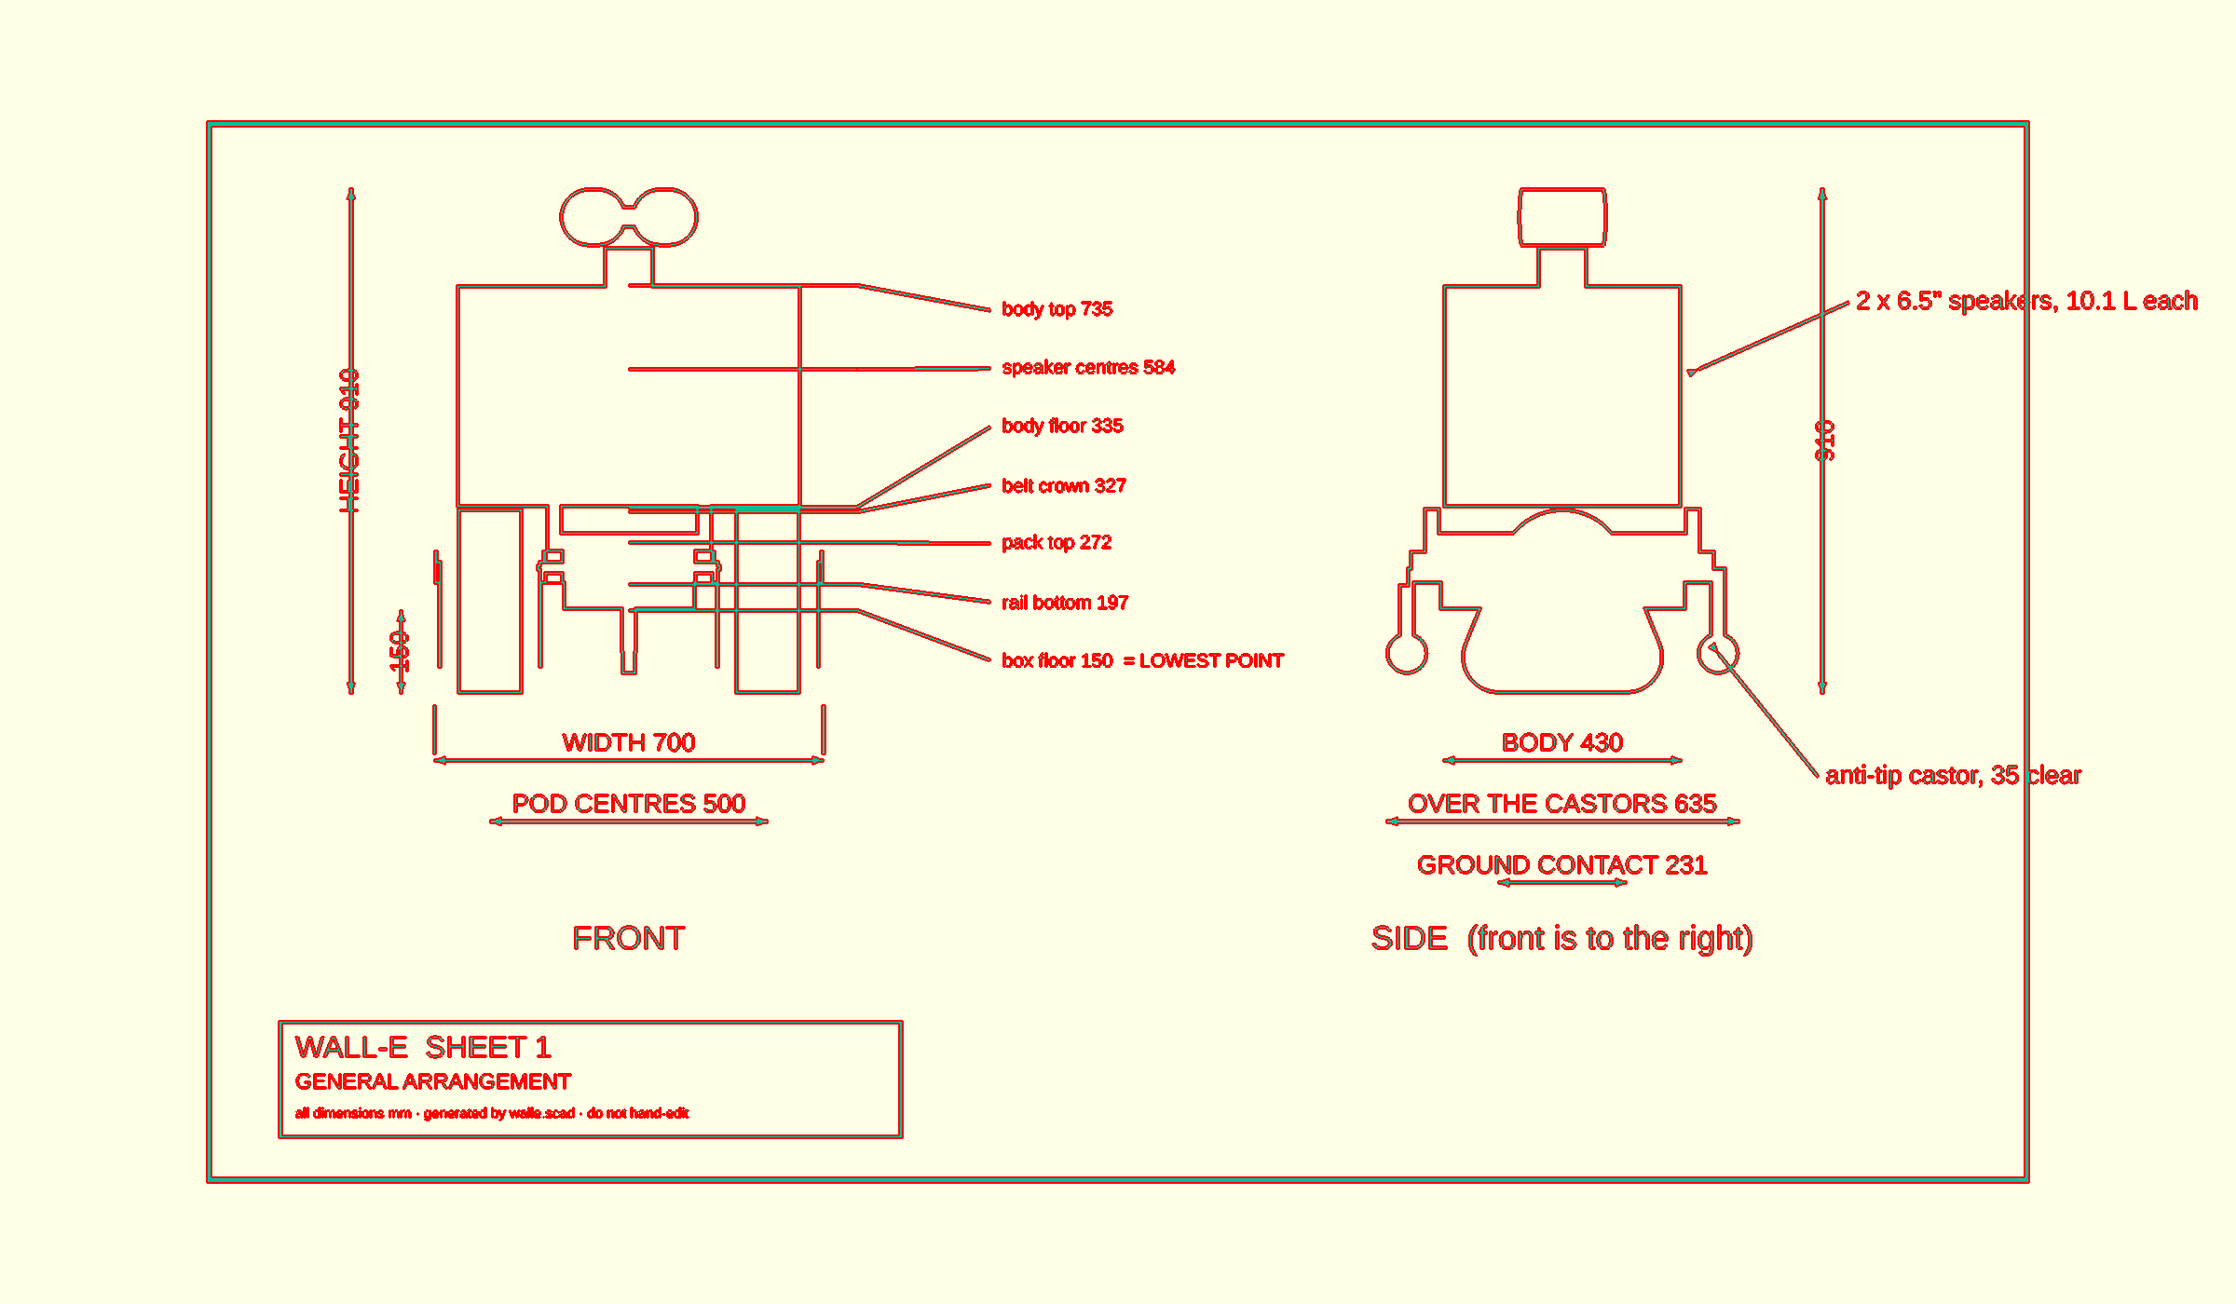
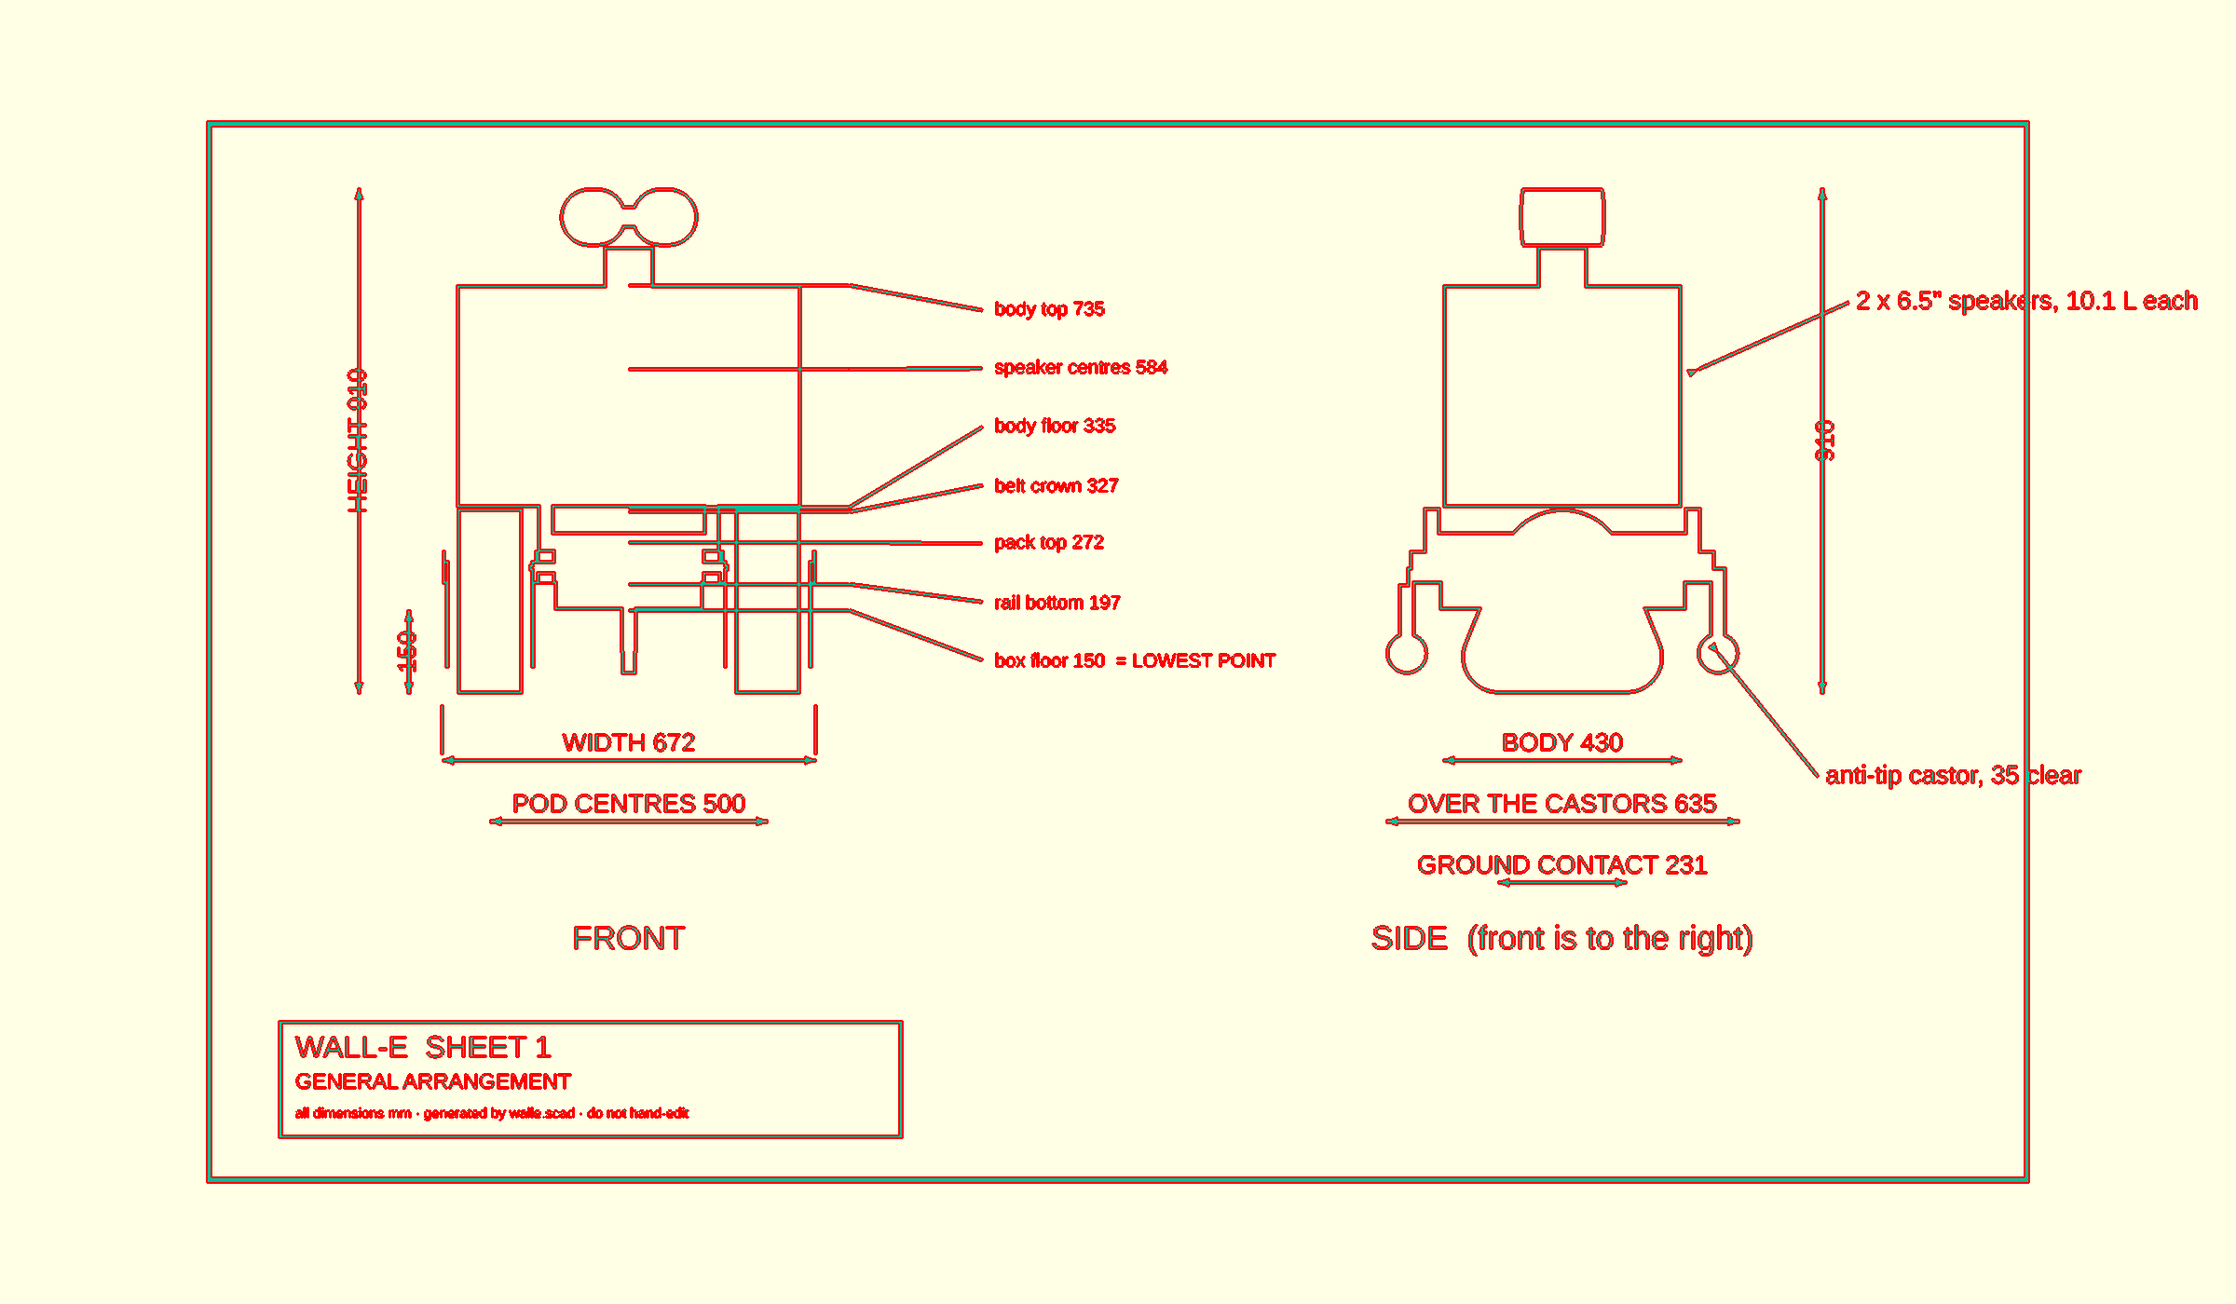
WALL-E: plywood body and wooden eyes; fix pod width error
Owner decisions 2026-09-17: the steel is already owned, so the frame stays
steel. Only the body and the eyes change to plywood.

Body is now 12 mm solid plywood instead of a foam core with a thin ply skin
and fibreglass. Its mass is computed from its own geometry rather than being
a 25 kg guess, which turned out to be the single biggest improvement in the
project so far:

  whole robot      100.4 -> 88.9 kg
  centre of mass     349 -> 334 mm
  tips forward at   17.7 -> 18.4 deg
  ground pressure  0.184 -> 0.163 kg/cm2
  body cost          760 -> 315 dollars

body_com_frac was a flat 0.40, justified by "the upper walls are foam". They
are not foam any more, so it is now computed: the shell's centroid is exactly
mid height because the floor and lid are equal, and only the framing sits low.

Eye barrels are stacks of twelve 12 mm plywood rings, glued up and sanded
round, because nobody is turning a 105 mm tube. That fixes eye_len to a whole
number of sheets, 144 rather than 150. Two new guards hold the 60 mm screen
recess on a ring glue line, so the screen lands on a shoulder and keeps the
sun shade that the SUN guard depends on.

Separately, check_pod_interface.scad caught a real error, which is the whole
reason that file exists. pod_interface.scad had the z stack as 84/88/94/100,
which is fork_gap = 168. The real Rev 012 value is 140, and 168 only ever
existed in a carrier-widening proposal that was reverted. The frame was 14 mm
[…]

diff --git a/WALL-E/docs/05-bom.md b/WALL-E/docs/05-bom.md
@@ -122,9 +122,10 @@ all unchanged — you swap the controllers and drop the DACs.
 | 1 | Buck converter, 48→32 V, 150 W, non-isolated | 25 | Stock | The amplifier's supply only. `04-power-and-wiring.md` section 4. |
 | 1 | Buck converter, 12→5 V, 5 A | 12 | Stock | Teensy, ESP32, head servos. |
 | — | Capacitors, 4700 µF 25 V, and TVS diodes | 20 | Stock | Rail buffer and VESC input protection. |
-| — | Steel box tube 60×30×3 and 30×30, plate, M12 10.9 bolts | 300 | Stock | Cut list is echoed by `cad/walle_frame.scad`. |
+| — | Steel box tube 60×30×3 and 30×30, plate | — | — | **You already have the steel.** Cut list is echoed by `cad/walle_frame.scad`: 2 × 550 rails, 2 × 240 cross members, 1580 mm of 60×30 in total. |
+| — | M12 10.9 bolts, and the Ø25/Ø13×30 sleeves to weld into the rails | 25 | Stock | The sleeve is what stops an M12 crushing a 3 mm box wall. Not optional. |
 | 12 mm | Birch plywood sheet | 60 | Stock | Battery box (six panels) and electronics shelf. |
-| 2 | Castor wheels, Ø75, and mounting steel | 60 | Stock | Anti-tip. `cad/walle_frame.scad`. |
+| 2 | Castor wheels, Ø75 | 35 | Stock | Anti-tip. `cad/walle_frame.scad`. Mounting steel you already have. |
 
 ### Sealing the battery box — small money, and it decides whether the packs survive
 
@@ -212,17 +213,55 @@ barrel instead of 50 %, and the eyes are the whole point. Not worth the saving.
 
 ---
 
-## 5. Body — phase 5
+## 5. Body and head — phase 5
 
-Buy this against a finished robot you can measure, not against the CAD model.
+**The body is PLYWOOD now.** Owner decision 2026-09-17: no foam core, no
+fibreglass, no filler, no paint job. A 12 mm plywood box, which is what
+`cad/walle_frame.scad` already models the walls as.
+
+This is the single best change in the whole document. It is **330 dollars
+cheaper** and the robot came out **11.5 kg lighter**, because the model was
+carrying a 25 kg guess for foam and glass and the real plywood box works out at
+13.6 kg computed from its own geometry. Every stability number improved:
+
+| | Was, foam body | Now, plywood body |
+|---|---|---|
+| Whole robot | 100.4 kg | **88.9 kg** |
+| Centre of mass | 349 mm | **334 mm** |
+| Tips forward at | 17.7° | **18.4°** |
+| Margin over the castor | 5.4° | **6.1°** |
+| Ground pressure | 0.184 kg/cm² | **0.163 kg/cm²** |
 
 | Qty | Part | Est. | Lead | Notes |
 |---|---|---|---|---|
-| — | Rigid foam board, 50 mm | 150 | Stock | The bulk of the shell. Keep the top light: `00-plan.md` locked decision L6. |
-| — | 4 mm plywood skin | 80 | Stock | |
-| — | Fibreglass cloth, resin, filler, primer, paint | 350 | Stock | |
-| — | Aluminium angle, hinges, catches, gas strut for the lid | 120 | Stock | The body top is the access lid for the shelf. |
-| — | Steel for the neck and the head frame | 60 | Stock | |
+| — | 12 mm birch plywood, about 1.7 m² | 130 | Stock | Floor, four walls, and the lid. Sizes come straight out of `cad/walle_frame.scad`. |
+| — | 12 mm plywood for the eye rings, about 0.3 m² | 25 | Stock | 24 discs of Ø105. See the head note below. |
+| — | Glue, screws, corner blocks | 30 | Stock | A plywood box is only as good as its corners. |
+| — | Hinges, catches, gas strut for the lid | 90 | Stock | The body top is the access lid for the shelf. Aluminium angle no longer needed. |
+| — | Exterior sealer or varnish | 40 | Stock | Not for looks. Plywood in the Negev sees big day-to-night humidity swings and delaminates if left bare. |
+| — | Steel for the neck and the head frame | — | — | **You already have the steel.** |
+
+### The eyes are wood, and that changes how they are made
+
+The barrels are **Ø105 round, built as a stack of 12 plywood rings**, glued up
+and then sanded round on the outside. Nobody is turning a 105 mm tube, and a
+stack of hole-sawn discs gets there with tools you have.
+
+That fixes the barrel length to a multiple of the sheet thickness: **12 rings
+of 12 mm = 144 mm**, not the 150 it used to be. Two guards now enforce it.
+
+Per barrel, from the cut list the model prints:
+
+| Rings | Bore | What it is |
+|---|---|---|
+| 5 | Ø59 | The screen well. **This depth is the sun shade.** |
+| 1 | Ø53 | The shoulder the screen sits on |
+| 6 | Ø81 | Cable and servo room behind |
+
+**Do not change the 60 mm recess to suit the ring count.** 60 is exactly five
+rings, so the screen lands on a glue line shoulder rather than mid-ring, and
+60 mm is what shades the screen from sun above 49° elevation. Negev midday is
+75 to 80°. There is a guard on each of those two facts.
 
 ---
 
@@ -257,31 +296,40 @@ cannot be the same failure.
 |---|---|---|
 | 1 — de-risking | now | 422 |
 | 1b — throttle interface for the scooter controllers | now | 76 |
-| 2 — frame and drive | 1 | 980 |
-| 2b — sealing the battery box | 1 | 80 |
-| 3 — compute and sensors | 2 | 740 |
-| 4 — face and sound | 4 | 400 |
-| 5 — body | 5 | 760 |
+| 2 — frame and drive, including sealing the box | 1 | 761 |
+| 3 — compute and sensors | 2 | 738 |
+| 4 — face and sound | 4 | 459 |
+| 5 — body and head, plywood | 5 | 315 |
 | Tools and consumables not listed above | throughout | 250 |
 | Spares kit (`00-plan.md` phase 6) | 6 | 300 |
-| **Total** | | **≈ 4,010** |
+| **Total** | | **≈ 3,320** |
 
-Using the scooter controllers you already own instead of two VESCs took **about 180 dollars**
-off this, not 260, because 76 of it goes straight back into the throttle interface and into
-the current, voltage, speed and temperature sensing that the VESCs would have included for
-free. The saving is real but modest. The reason to do it is that it costs nothing to try and
-it gets the robot moving sooner.
+Every figure above is now **summed from its own table** rather than typed in.
+Doing that turned up three that had drifted: section 1 said 350 when it summed
+to 552, section 3 said 740 against 738, and section 4 said 400 when it actually
+sums to 459. The total was understated in one place and overstated in another.
 
-**Leaving the VESCs out is the one cut on this page that you may have to undo.** The others
-are cosmetic or optional. This one is a bet that six-step commutation is smooth enough at
-walking pace for a skid-steer robot, and you will not know until you drive it. Budget 260
-dollars as a contingency rather than treating it as saved.
+### How it got from 4,200 to 3,320
+
+| Change | Saving |
+|---|---|
+| The body is plywood, not foam and fibreglass | **445** |
+| You already own the frame and head steel | **335** |
+| Use the scooter controllers instead of two VESCs | **180**, after 76 spent on the interface |
+| Correcting section 4, which was understated | **−59** |
+
+The two big ones cost nothing in capability. **The plywood body actively made
+the robot better**: 11.5 kg lighter, centre of mass 15 mm lower, and 0.7° more
+forward tipping margin, because the 25 kg foam-and-glass figure was a guess and
+the plywood box is computed from its own geometry.
+
+**The controller decision is still the one you may have to undo.** Hold its 260
+dollars as contingency. If six-step commutation judders at walking pace, two
+VESCs drop straight in.
 
 The three places to cut, in order:
 
-1. **The body.** Foam and paint is 760 dollars of the total and none of it makes the robot
-   work. A rough body for the first outing is fine.
-2. **The LiDAR.** 100 dollars, and the ToF bumper ring plus the depth camera already cover
+1. **The LiDAR.** 100 dollars, and the ToF bumper ring plus the depth camera already cover
    the safety case. The LiDAR is for the mapping you probably will not build.
 3. **The GPS and IMU.** Only needed for `ASSIST` mode, which `00-plan.md` already lists as
    the first thing to drop.

diff --git a/WALL-E/BUILD.md b/WALL-E/BUILD.md
@@ -44,7 +44,7 @@ on every sheet below it is wrong too.
 
 | | |
 |---|---|
-| Overall | 910 mm tall, 700 mm wide, 430 mm body length |
+| Overall | 910 mm tall, 672 mm wide, 430 mm body length |
 | Weight | about 100 kg, and **that is a guess** — see step 0 |
 | Lowest point | the plywood box floor, 150 mm above the ground |
 | Tips forward at | 17.7°, and the castor catches it at 12.3° |
@@ -60,8 +60,8 @@ and expensive to discover later.
 ### 0a. Do the pods still have their green plates on?
 
 This is the one that matters. The model assumes the green plates **are** fitted,
-which puts the pod's widest point at 100 mm from its centre and makes the robot
-700 mm wide overall. The rails bolt to the outer face of those plates.
+which puts the pod's widest point at 86 mm from its centre and makes the robot
+672 mm wide overall. The rails bolt to the INNER face of those plates.
 
 The Rev 012 pod model itself asks whether the plates are needed at all, and in
 its own chassis mode it drops them and picks up on the carrier plates instead.
@@ -75,9 +75,41 @@ Go and look at the physical pods.
   pod_has_green_plate = false;
   ```
 
-  The rails then land on the carrier faces at 94 instead of 100, the robot gets
+  The rails then land on the carrier faces at 80 instead of 86, the robot gets
   12 mm narrower, and each rail moves out 6 mm. Run `./render_all.sh` again and
   use the new sheets.
+
+### 0a2. Measure the gap between the fork legs before you cut anything
+
+**Do this one with a tape measure, not by trusting this document.**
+
+On 2026-09-17 the checker found that the WALL-E frame had been built on
+`fork_gap = 168` when the real Rev 012 value is **140**. The 168 came from a
+proposal to widen the carrier spacing that was then reverted, so it had never
+been true. The frame was **14 mm per side too wide**, and the drawings said
+700 mm overall when the answer is 672.
+
+It is fixed now. But it is exactly the kind of error that survives right up to
+the moment the steel is already cut, so verify it yourself:
+
+| Measure | Should be |
+|---|---|
+| Inner gap between the two fork legs | 140 mm |
+| Fork leg thickness | 4 mm |
+| Carrier plate thickness | 6 mm |
+| Green plate thickness | 6 mm |
+| Outer face to outer face, green plate to green plate | 172 mm |
+
+If any of these differ, change them in `pod_interface.scad`, then run:
+
+```
+openscad -o /tmp/check.csg WALL-E/check_pod_interface.scad
+./render_all.sh
+```
+
+The checker tells you whether the numbers still match the pod model, and the
+render script re-cuts every drawing. Never edit a dimension in `walle_frame.scad`
+to work around a pod measurement.
 
 ### 0b. Weigh things
 
@@ -144,7 +176,7 @@ weld anything else.
 
 From sheet 2, plan view. Distances are from the rail's rear end.
 
-- Rail outer faces **300 mm apart**, so **240 mm clear** between them.
+- Rail outer faces **328 mm apart**, so **268 mm clear** between them.
 - Rear cross member at **25 mm**.
 - Front cross member at **525 mm**.
 - Both cross members are 240 mm long and sit **between** the rails.
@@ -156,7 +188,7 @@ Then the anti-tip legs: two 87 mm uprights with Ø75 castors, 280 mm out from th
 centre, set so the castor wheel is **35 mm clear of the ground**.
 
 **Check:** measure both diagonals across the bay. They must match. Then check
-the clear bay is 240 mm at both ends, not just in the middle.
+the clear bay is 268 mm at both ends, not just in the middle.
 
 ---
 

diff --git a/WALL-E/docs/00-plan.md b/WALL-E/docs/00-plan.md
@@ -10,7 +10,7 @@ detail of how the electronics fit together.
 
 ## 1. What "done" looks like
 
-A tracked robot, about 700 mm wide and roughly a metre tall, that clearly reads as WALL-E to
+A tracked robot, about 672 mm wide and roughly a metre tall, that clearly reads as WALL-E to
 anybody who has seen the film. It is driven by a person with a radio remote. Its eyes find
 faces and follow them. It makes WALL-E's noises. It runs for a full evening on the sand of
 the Negev, in a crowd, without hurting anybody and without breaking down.
@@ -111,7 +111,7 @@ follow from that:
 | L3 | Three boards: Brain, Spine, Face | Timing requirements differ by 1000×. `01-architecture.md` §1 |
 | L4 | Radio receiver and E-stop wire into the Spine | The driver keeps control when the Brain crashes |
 | L5 | No SLAM. GPS and compass if position is needed at all | Open desert has no landmarks and the crowd keeps moving |
-| L6 | Body from foam and thin plywood | Mass up high makes the tipping worse. Keep the top light |
+| L6 | **Body from 12 mm plywood.** REVISED 2026-09-17: was foam with a thin ply skin and fibreglass over it | Mass up high makes the tipping worse, and plywood turned out to be the LIGHTER answer: the foam build was a 25 kg guess, the plywood box computes to 13.6 kg from its own geometry. 11.5 kg off the robot, 15 mm off the centre of mass, 0.7 deg more forward tipping margin, and 445 dollars cheaper |
 | L7 | Keep the fitted 18-link belts | Was decision D1. See below |
 | L8 | Frame mounting width 168 mm | Set by the built pods. Not a choice any more |
 | L9 | One 48 V pack per pod, positives separate, negatives bonded at one point | Was D4. Avoids paralleling two packs entirely. `01-architecture.md` §3b |
@@ -328,7 +328,7 @@ it, and its eyes follow a person walking across a room while the head tilts.
 
 ### Phase 5 — Body, paint, lighting (weeks 14 – 24)
 
-Shell from foam and thin plywood, arms fitted, weathered paint, night lighting.
+Shell from 12 mm plywood, arms fitted, sealed or varnished against the day-to-night humidity swing, night lighting. The eye barrels are stacks of 12 plywood rings, glued up and sanded round.
 
 **Exit test:** somebody who has seen the film says "WALL-E" without being prompted.
 
@@ -367,11 +367,11 @@ material, shocks, bearings, axles, belts and sprockets are already paid for and 
 | Sensors | LiDAR, OAK-D camera, 6 × ToF, GPS, compass | 300 – 400 |
 | Power conditioning | Isolated DC-DC converters, buffer, distribution | 100 – 150 |
 | Audio | Class-D amplifier, wiring | 60 – 100 |
-| Body | Foam, plywood, fibreglass, filler, paint | 400 – 800 |
+| Body and head | 12 mm plywood, glue, hinges, gas strut, sealer. Steel already owned | 280 - 360 |
 | Lighting | LED strips, drivers, the eye illumination | 100 – 150 |
 | Tools and consumables | Soldering, crimping, multimeter, drill bits | 200 – 400 |
 | Spares kit | Section 6, Phase 6 | 250 – 350 |
-| **Total still to spend** | | **≈ 2,700 – 4,200** |
+| **Total still to spend** | | **≈ 2,600 – 3,320** |
 
 If the donor battery packs cannot be reused, add 600 to 1,200.
 

diff --git a/WALL-E/README.md b/WALL-E/README.md
@@ -166,10 +166,10 @@ wheels.
 
 | Headline number | Value |
 |---|---|
-| Overall width | 700 mm (pods 500 apart, green plates stick out 100 each side) |
+| Overall width | 672 mm (pods 500 apart, green plates stick out 86 each side) |
 | Overall height | 910 mm, to the top of the eye barrels |
 | Body | 430 long × 620 wide × 400 tall, floor at 335 mm |
-| Rails | 60×30×3 box, 550 long, 240 mm clear between them |
+| Rails | 60×30×3 box, 550 long, 268 mm clear between them |
 | Lowest point of the robot | 150 mm above the ground |
 | Whole robot, estimated | 100 kg — **every mass in the model is still a guess** |
 | Centre of mass | 349 mm up, and 4 mm forward of centre — the chest speakers |
